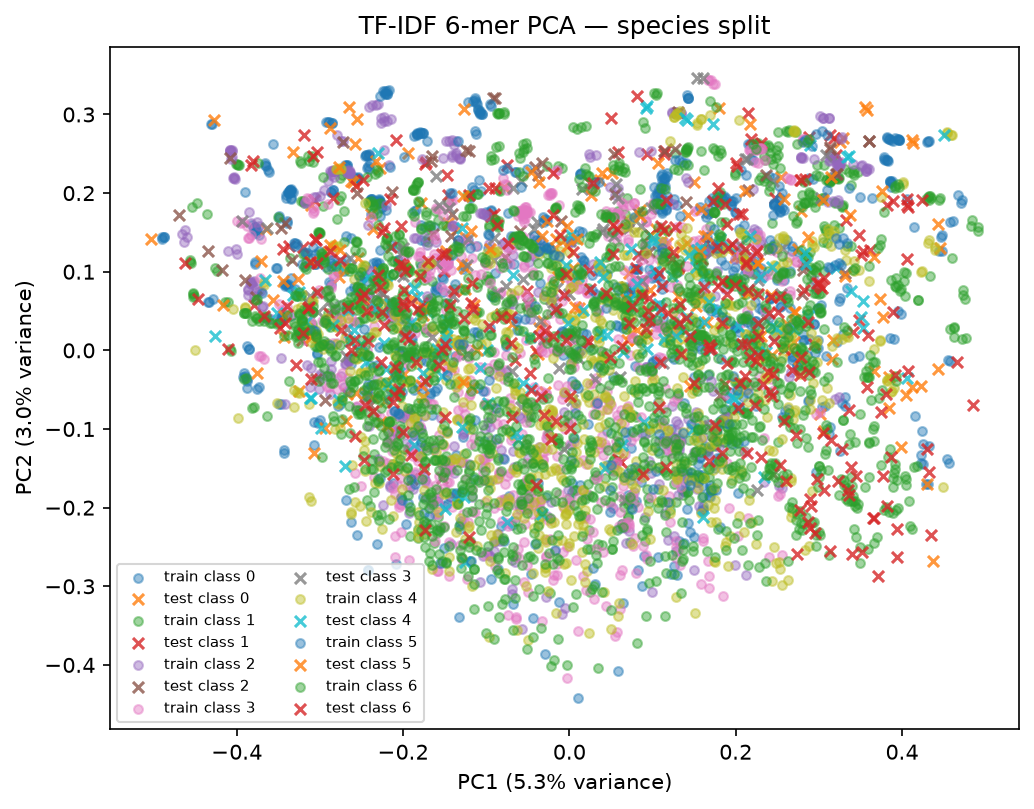
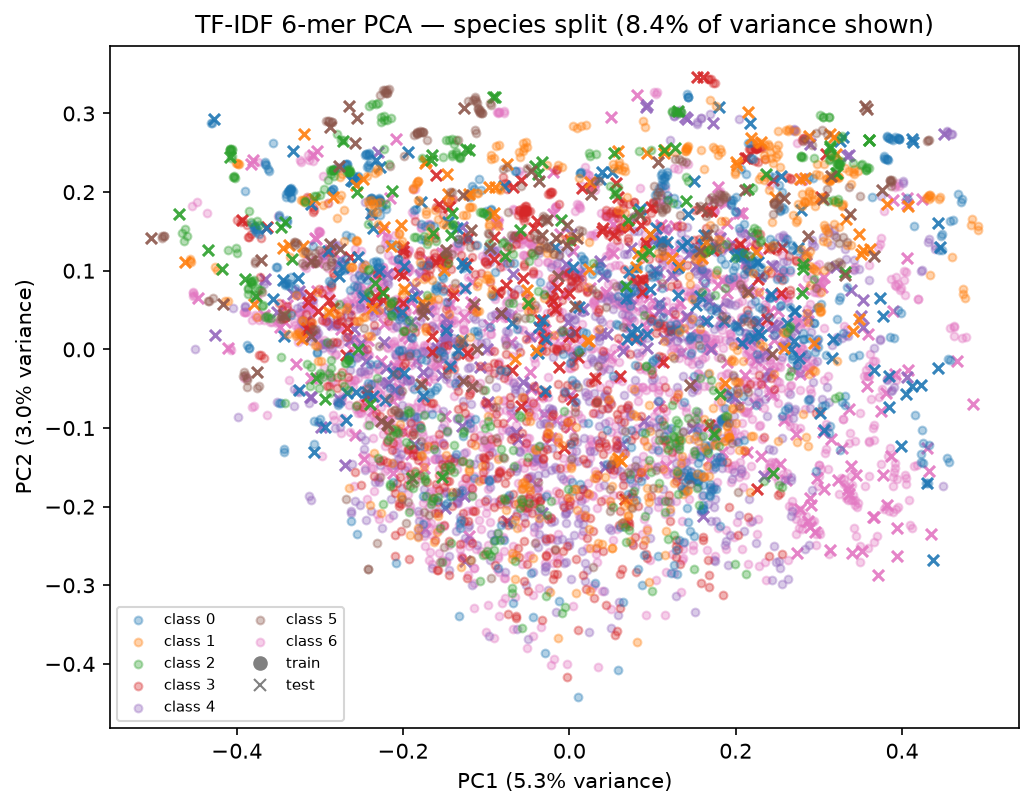
PCA plot: one colour per class, total variance in title

diff --git a/src/controls.py b/src/controls.py
@@ -303,8 +303,15 @@ def make_pca_plot(
         set(test["label"].tolist())
     )
 
-    # Plot each class separately so the legend identifies gene families.
-    for label in labels:
+    # One colour per class, shared by train (dots) and test (crosses).
+    colours = plt.get_cmap("tab10")
+
+    # Draw the biggest classes first so smaller ones stay visible on top.
+    counts = train["label"].value_counts()
+    order = sorted(labels, key=lambda c: -counts.get(c, 0))
+
+    for label in order:
+        colour = colours(int(label))
         train_mask = train["label"].to_numpy() == label
         test_mask = test["label"].to_numpy() == label
 
@@ -312,19 +319,20 @@ def make_pca_plot(
             ax.scatter(
                 train_2d[train_mask, 0],
                 train_2d[train_mask, 1],
-                alpha=0.45,
-                s=18,
-                label=f"train class {label}",
+                color=colour,
+                alpha=0.35,
+                s=14,
+                label=f"class {label}",
             )
 
         if test_mask.any():
             ax.scatter(
                 test_2d[test_mask, 0],
                 test_2d[test_mask, 1],
-                alpha=0.8,
+                color=colour,
+                alpha=0.9,
                 s=28,
                 marker="x",
-                label=f"test class {label}",
             )
 
     explained = pca.explained_variance_ratio_
@@ -336,15 +344,22 @@ def make_pca_plot(
         f"PC2 ({explained[1] * 100:.1f}% variance)"
     )
 
+    total = (explained[0] + explained[1]) * 100
     ax.set_title(
-        f"TF-IDF {k}-mer PCA — {split} split"
+        f"TF-IDF {k}-mer PCA — {split} split "
+        f"({total:.1f}% of variance shown)"
     )
 
-    ax.legend(
-        fontsize=7,
-        ncol=2,
-        loc="best",
-    )
+    from matplotlib.lines import Line2D
+    handles, names = ax.get_legend_handles_labels()
+    pairs = sorted(zip(names, handles), key=lambda p: int(p[0].split()[-1]))
+    names, handles = [p[0] for p in pairs], [p[1] for p in pairs]
+    handles += [
+        Line2D([], [], marker="o", ls="", color="grey", label="train"),
+        Line2D([], [], marker="x", ls="", color="grey", label="test"),
+    ]
+    names += ["train", "test"]
+    ax.legend(handles, names, fontsize=7, ncol=2, loc="best")
 
     fig.tight_layout()
 
